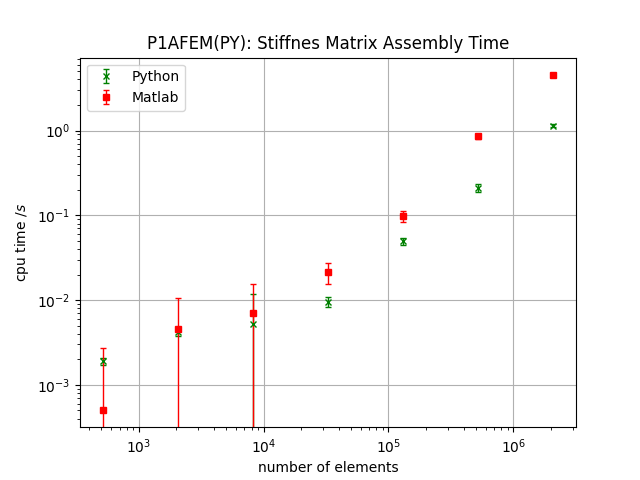
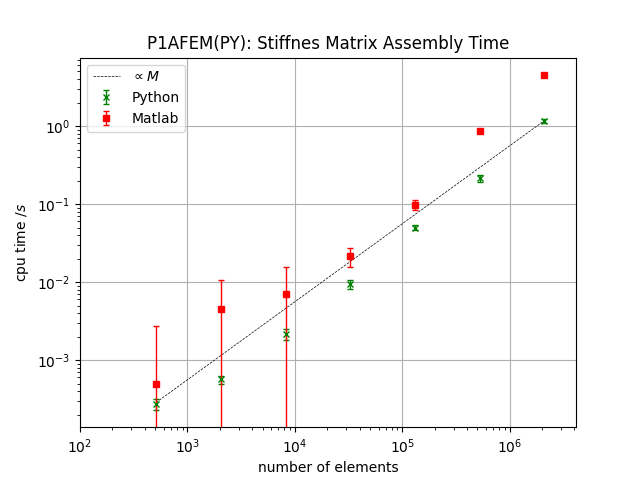
performance test stiffness matrix: imprpved plot by including linear fit

diff --git a/p1afempy/tests/manual/performance_test_stiffnes_matrix.py b/p1afempy/tests/manual/performance_test_stiffnes_matrix.py
@@ -6,6 +6,7 @@ from p1afempy import io_helpers
 from p1afempy import solvers
 from p1afempy import refinement
 from pathlib import Path
+from scipy.stats import linregress
 
 
 class TestResult:
@@ -44,7 +45,7 @@ def main() -> None:
     boundaries = [boundary_0, boundary_1]
 
     # specifying statistics
-    n_refinements =11
+    n_refinements = 11
     n_repetetitions_each = 20
 
     test_results: list[TestResult] = []
@@ -74,6 +75,9 @@ def main() -> None:
     means = np.array([np.mean(result.times) for result in test_results])
     stdvs = np.array([np.std(result.times) for result in test_results])
 
+    # Fit a straight line (y = mx + q) using linregress
+    res = linregress(n_elements[-4:], means[-4:])
+
     # read matlab results
     path_to_matlab_means = Path(
         'tests/data/matlab_performance/'
@@ -99,6 +103,10 @@ def main() -> None:
     ax.errorbar(n_elements[cut_at:], means[cut_at:], stdvs[cut_at:],
                 fmt='x', label='Python', color='green',
                 capsize=2, capthick=1, elinewidth=1, markersize=4)
+    ax.loglog(n_elements[cut_at:],
+              res.slope * n_elements[cut_at:],
+              linestyle='--', color='black', linewidth=0.5,
+              label=r'$\propto M$')
 
     # plot matlab results
     ax.errorbar(matlab_n_elements[cut_at:],
@@ -112,6 +120,8 @@ def main() -> None:
     # Set the axis to log-log scale
     ax.set_xscale('log')
     ax.set_yscale('log')
+
+    ax.set_xlim(left=1e2)
 
     ax.grid()
     ax.legend(loc='best')
